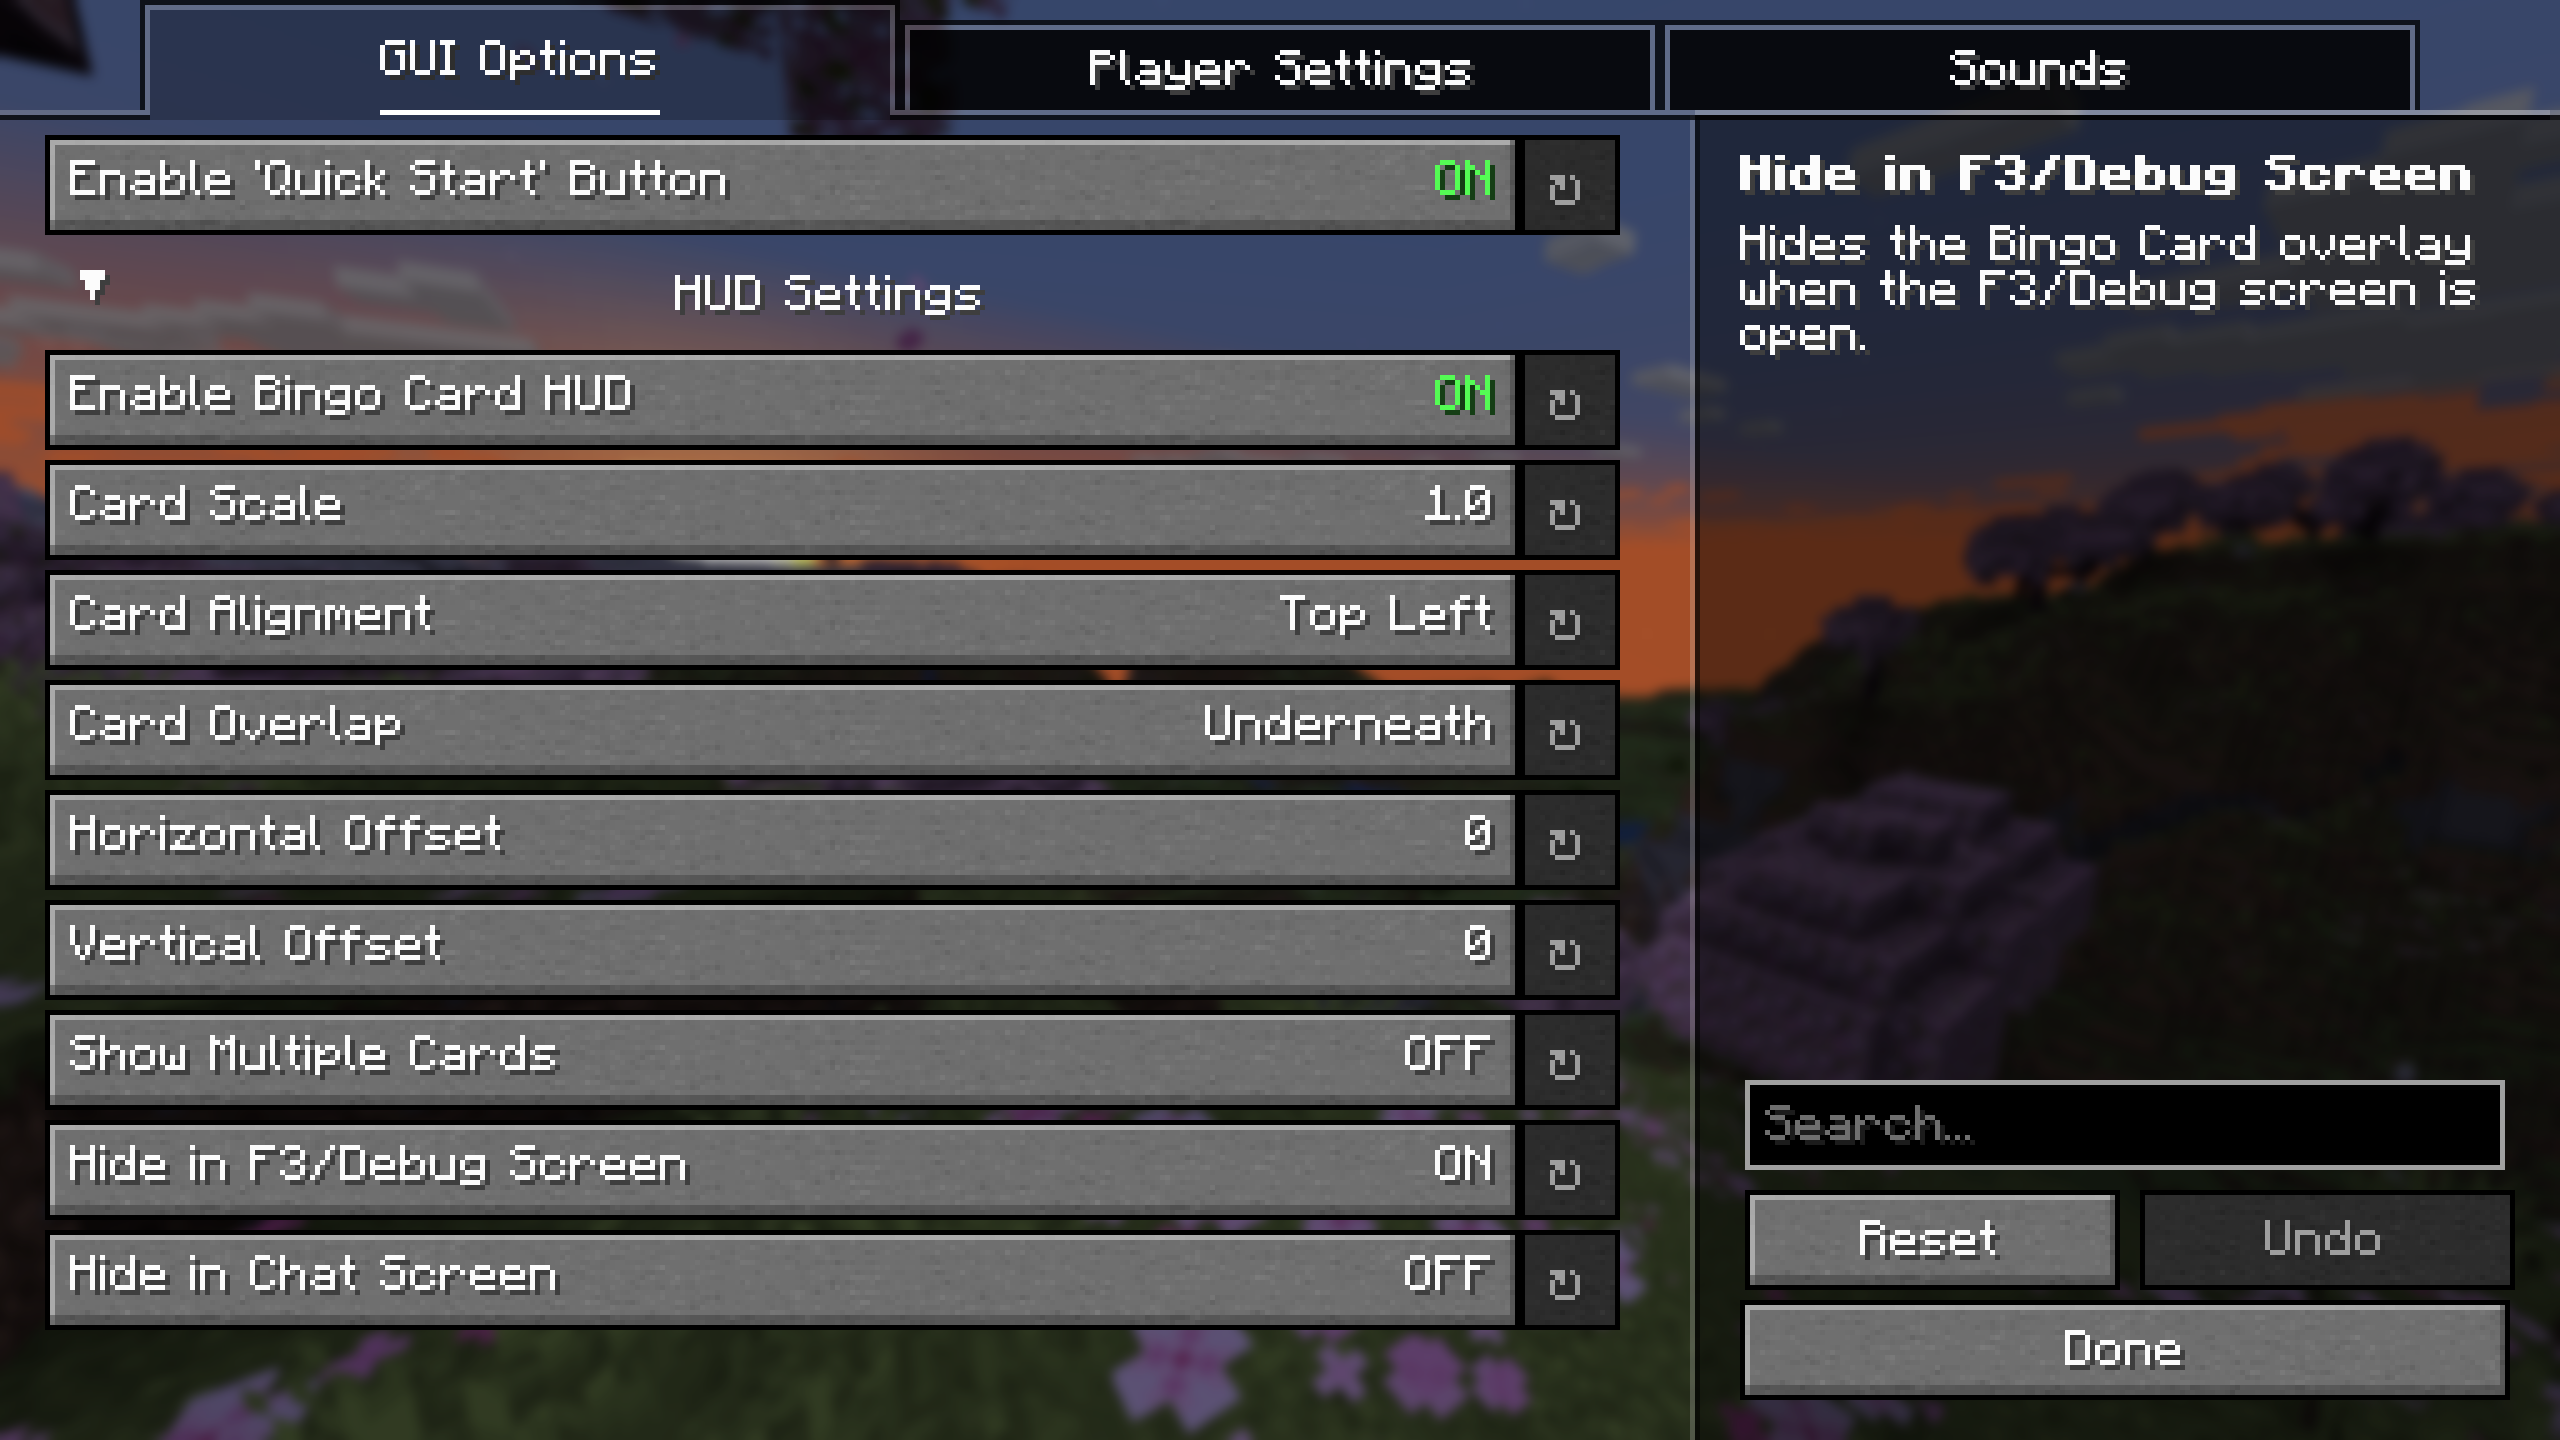
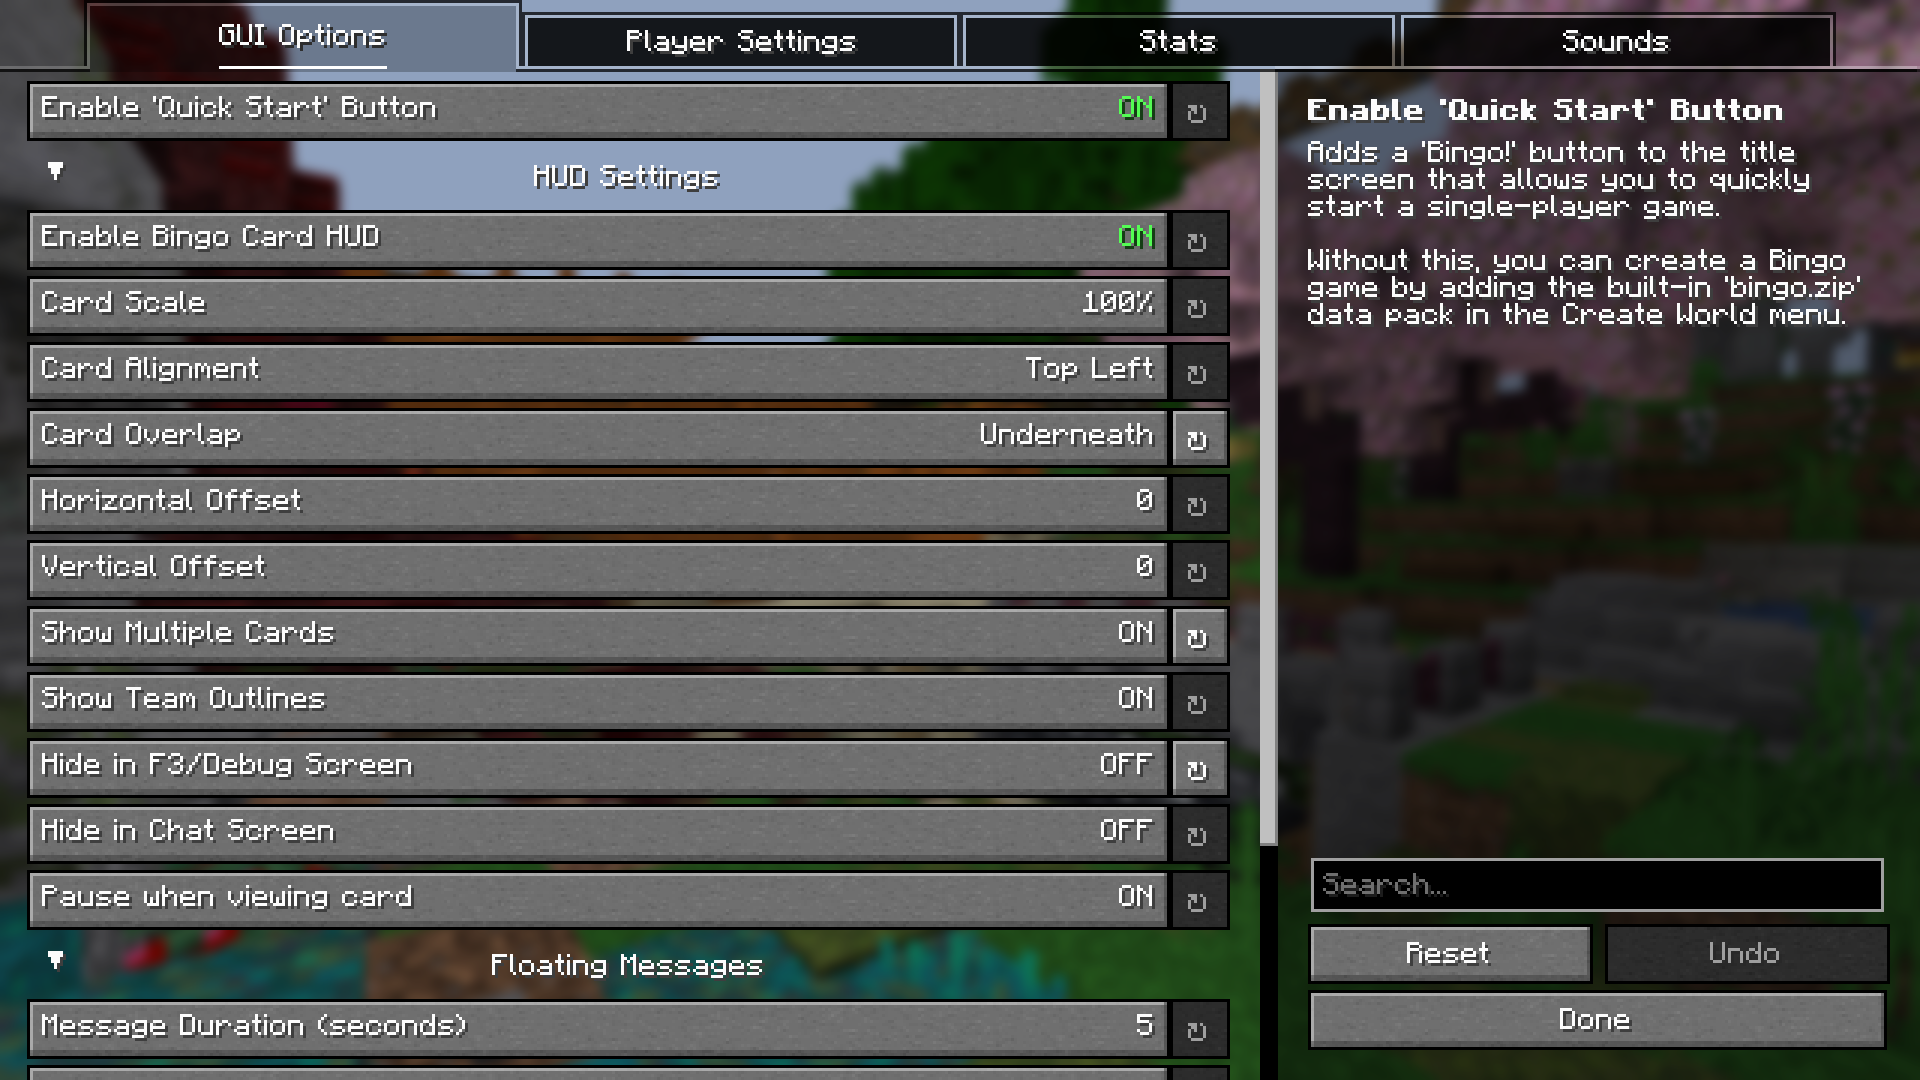
update README

diff --git a/README.md b/README.md
@@ -1,22 +1,12 @@
-<table>
-<tbody>
-<td>
-
-### Looking for a modpack?
-
-Check out [Yet Another BINGO: Ultimate](https://modrinth.com/modpack/yet-another-bingo-ultimate) for an opinionated collection of helpful bingo mods!
-
-</td>
-</tbody>
-</table>
-
-![Yet Another Bingo for Minecraft](https://gitlab.com/horrificdev/bingo/-/raw/main/docs/banner-with-card.png)
+<center>
+<br><br><img src="https://gitlab.com/horrificdev/bingo/-/raw/main/docs/banner.png" alt="" width="380"><br><br>
 
 [![Requires Fabric API](https://cdn.jsdelivr.net/npm/@intergrav/devins-badges@2/assets/cozy/requires/fabric-api_vector.svg)](https://modrinth.com/mod/fabric-api)
 [![Available on GitLab](https://cdn.jsdelivr.net/npm/@intergrav/devins-badges@2/assets/cozy/available/gitlab_vector.svg)](https://gitlab.com/horrificdev/bingo)
-[![Available on Modrinth](https://cdn.jsdelivr.net/npm/@intergrav/devins-badges@2/assets/cozy/available/modrinth_vector.svg)](https://modrinth.com/mod/yet-another-minecraft-bingo)
 
-*For an introduction to Minecraft BINGO, read "[What is Minecraft BINGO?](https://horrific.dev/bingo/what-is-bingo/)" on the wiki!*
+</center>
+
+#### Looking for a modpack? <br>Check out [Yet Another Bingo: Ultimate](https://modrinth.com/modpack/yet-another-bingo-ultimate)!
 
 This is a multiplayer BINGO/Lockout mod + lobby, which works on the client or on a dedicated server.
 
@@ -31,7 +21,7 @@ This is a multiplayer BINGO/Lockout mod + lobby, which works on the client or on
 </td>
 <td>
 
-Up to 8 teams can compete to collect items on the BINGO card. Score items in horizontal, vertical, or diagonal
+Teams can compete to collect items on the BINGO card. Score items in horizontal, vertical, or diagonal
 lines to win the game.
 
 ---
@@ -45,42 +35,35 @@ lines to win the game.
 </tbody>
 </table>
 
-### Gamemodes:
+*For an introduction to Minecraft BINGO, read "[What is Minecraft BINGO?](https://horrific.dev/bingo/what-is-bingo/)" on the wiki!*
 
-- **Standard**: Collecting an item scores the tile. Normal BINGO behavior.
-- **Lockout**: Once an item is collected by any team, that tile is locked and no other teams can collect it.
-- **Inventory**: Items must remain in a team member's inventory to hold a tile. Losing an item un-marks its tile on the
-  card (meaning you need to stay alive with your items in order to win).
-- **Hidden Items**: Items are not shown on the bingo card until a player discovers them.
-- **Consume Items**: Items are taken from the player whenever they are captured on a card.
+<img src="https://gitlab.com/horrificdev/bingo/-/raw/main/docs/divider.png" width="100%" style="image-rendering: pixelated" alt="">
 
-### Extra Options:
+<center><h3>Features</h3></center>
 
-- **Unlock Recipes**: Gives players all crafting recipes at the start of the game.
-- **Keep Inventory**: Sets the `keepInventory` gamerule. (players keep their items on respawn)
-- **Elytra**: Gives all players an elytra and infinite rockets throughout the game.
-- **Night Vision**: Gives all players the night vision effect. (can be toggled individually with `/bingoprefs`)
-- **Allow PvP**: Toggles whether players can attack each other.
-- **Spawn Kit**: Give teams or players a configurable set of starting gear.
+![](https://gitlab.com/horrificdev/bingo/-/raw/main/docs/screenshot_banner.png)
 
-## 📖 Configuration
+*Make sure to install [Mod Menu](https://modrinth.com/mod/modmenu) and [YetAnotherConfigLib](https://modrinth.com/mod/yacl) to use the built-in config screen!*
 
-*When using this mod in single-player, make sure to install [Mod Menu](https://modrinth.com/mod/modmenu) and [YetAnotherConfigLib](https://modrinth.com/mod/yacl) to use the built-in config screen!*
+- #### Unique gamemodes
 
-![A configuration menu for the Bingo GUI options](https://gitlab.com/horrificdev/bingo/-/raw/main/docs/config-menu-3.png)
+  The gamemode toggles and goal options offer some interesting combinations. Try the "Lockout", "Hidden Items", or "Replace Goals" settings for a fun time!
 
-No initial setup is needed  to use the mod; it should run out of the box. The config files live in
-`./config/yet-another-minecraft-bingo`.
+- #### Unnecessary polish
 
-The items used to generate bingo card items at different tiers can be customized in the `*.tierlist.json` files. Once
-placed in the `./config/yet-another-minecraft-bingo/` directory, they can be enabled in-game using the "Tier List" menu.
+  Features an interactive lobby, ready-up timer, and score notifications. Integrates with [Simple Voice Chat](https://modrinth.com/plugin/simple-voice-chat) to manage team groups. Use your choice of [JEI](https://modrinth.com/mod/jei)/[REI](https://modrinth.com/mod/rei)/[EMI](https://modrinth.com/mod/emi) to see crafting recipes by clicking the bingo card!
 
-> There's a nifty [configuration tool](https://horrific.dev/bingo/tier-editor/) I've set up that'll let you
-> change these tier lists in a drag-and-drop interface rather than editing the files in text.
+- #### A ton of settings
 
-You can find more info about configuring this mod [on the wiki](https://horrific.dev/bingo/config/)!
+  Give players infinite elytra, provide a spawn kit, and individually tune the items and difficulty of the bingo card - all without leaving the lobby.
 
-## ⌨ Commands
+- #### Configure literally anything!
+
+  Supports customizing the [lobby build](https://horrific.dev/bingo/lobby-structure/), changing textures in [resource packs](https://horrific.dev/bingo/resource-pack-guide/), adding [custom objectives](https://horrific.dev/bingo/custom-objectives/), and more!
+
+<img src="https://gitlab.com/horrificdev/bingo/-/raw/main/docs/divider.png" width="100%" style="image-rendering: pixelated" alt="">
+
+<center><h3>Commands</h3></center>
 
 This is a brief summary of the most important commands. See the [Command Cheatsheet](https://horrific.dev/bingo/command-cheatsheet/) for a complete list of bingo commands and descriptions!
 
@@ -90,13 +73,15 @@ Global commands:
 - `/all` or `/g` sends a message to the global chat (sending a regular chat message defaults to team chat when in-game)
 - `/join <team>` (when in the lobby) allows a player to join the specified team
 
-BINGO commands (operator-only):
+BINGO commands (operator-only, unless you use [LuckPerms](https://modrinth.com/plugin/luckperms)):
 - `/bingo reroll` rerolls for a new Bingo Card with different items
 - `/bingo seed` shows or sets the random seed used to generate the current Bingo Card
 - `/bingo end` immediately ends the current game and displays the winner (or a draw)
 - `/join <team> <player>` assigns a player to a different team - will respawn them if in-game
 
-## Credits
+<img src="https://gitlab.com/horrificdev/bingo/-/raw/main/docs/divider.png" width="100%" style="image-rendering: pixelated" alt="">
+
+<center><h3>Credits</h3></center>
 
 The very pretty Bingo Card HUD and "Bingo!" button textures were made by [@marceles](https://marceles.carrd.co)!
 
@@ -106,18 +91,12 @@ The logo design was inspired by [Aikoyori/ProgrammingVTuberLogos](https://github
 
 Vanilla entity/challenge goal textures are from [minecraft-heads.com](https://minecraft-heads.com/)
 
+
 ### Translations
 
-<table>
-<tbody>
-<td>
-
 [![Localized on CrowdIn](https://img.shields.io/badge/Localized_On-Crowdin-373d4c?style=for-the-badge&labelColor=464e62&logoColor=white&logo=Crowdin)](https://crowdin.com/project/yet-another-bingo)
-<br>**Help translate this mod into your language!** All text in this project is available [on CrowdIn](https://crowdin.com/project/yet-another-bingo) for anyone to submit translations.
 
-</td>
-</tbody>
-</table>
+**Help translate this mod into your language!** <br>All text in this project is available [on CrowdIn](https://crowdin.com/project/yet-another-bingo) for anyone to submit translations.
 
 
 Chinese Simplified translations were contributed by Fishlanding, tovv3r, Young912, BoredYukolin, yzy_sheep, nageih, and teaSummer!<br>
